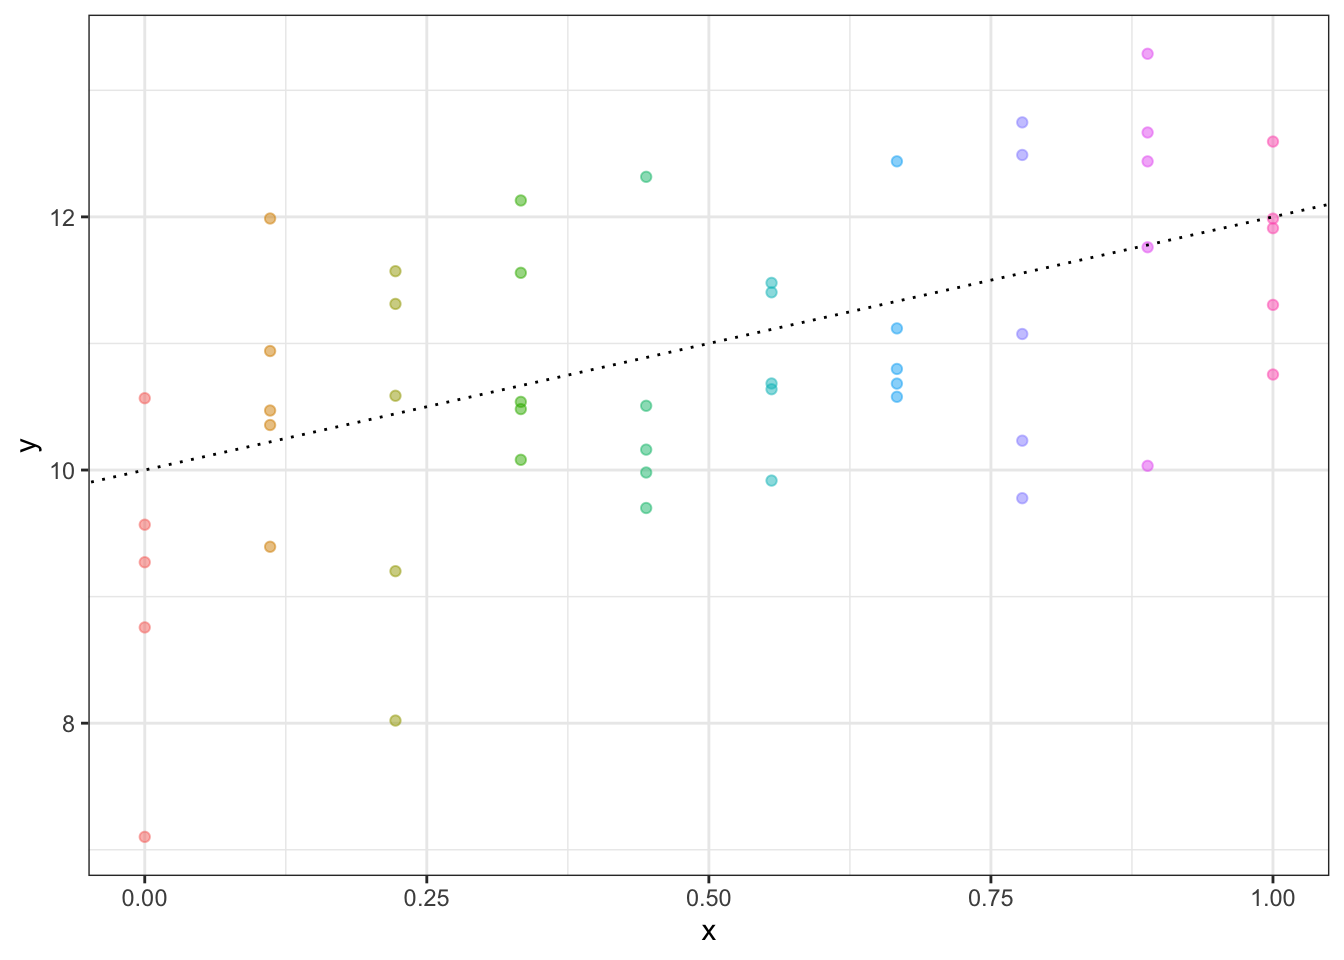
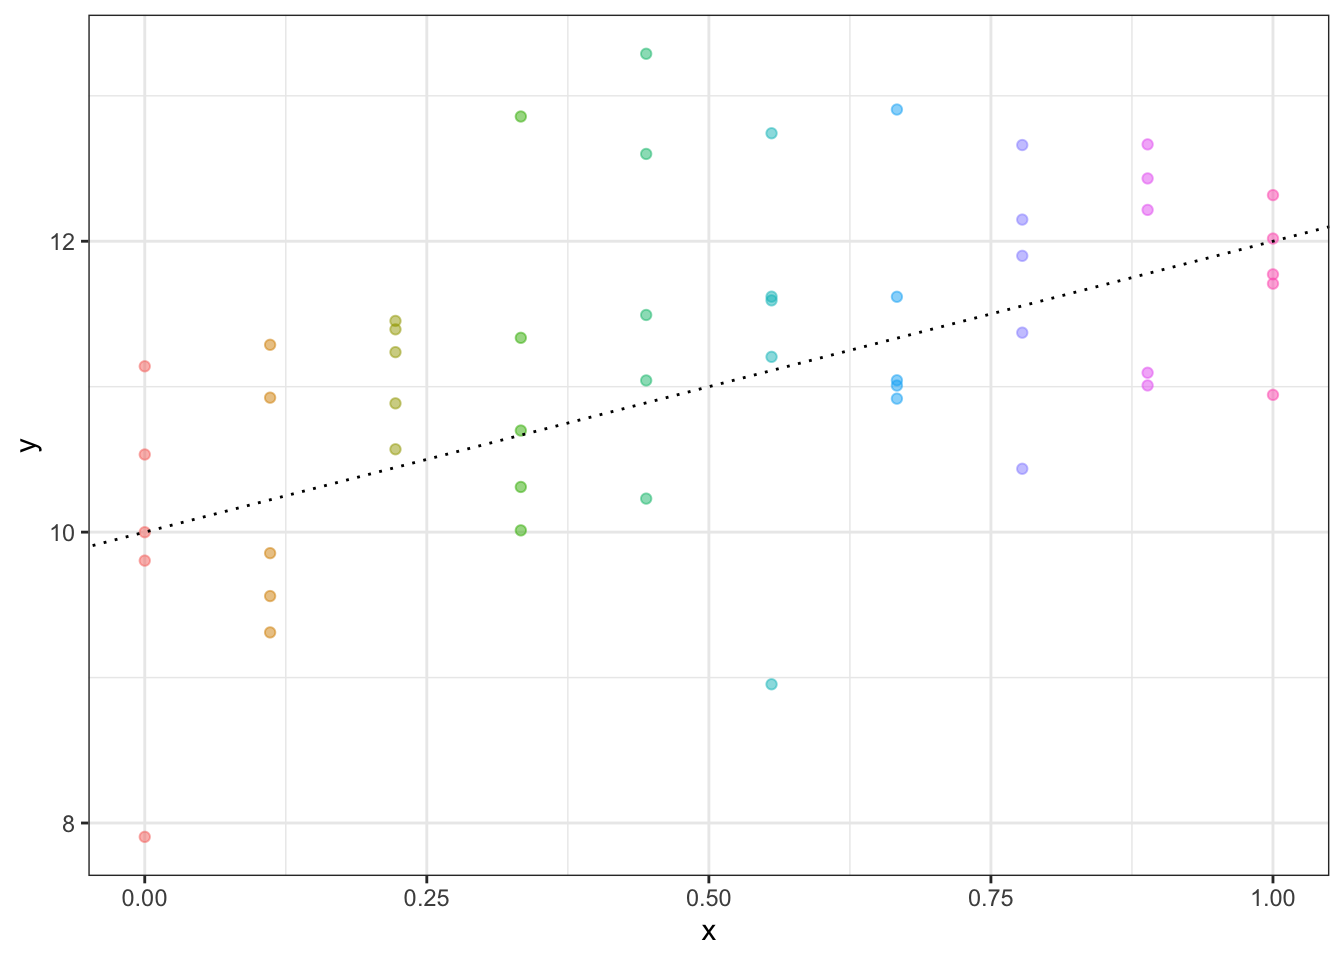
Minor edit

diff --git a/index.html b/index.html
@@ -135,9 +135,8 @@ code span.wa { color: #60a0b0; font-weight: bold; font-style: italic; } /* Warni
 <span id="cb1-8"><a href="#cb1-8" aria-hidden="true" tabindex="-1"></a><span class="fu">library</span>(tidybayes)</span>
 <span id="cb1-9"><a href="#cb1-9" aria-hidden="true" tabindex="-1"></a><span class="fu">options</span>(</span>
 <span id="cb1-10"><a href="#cb1-10" aria-hidden="true" tabindex="-1"></a>  <span class="at">mc.cores =</span> parallel<span class="sc">::</span><span class="fu">detectCores</span>(),</span>
-<span id="cb1-11"><a href="#cb1-11" aria-hidden="true" tabindex="-1"></a>  <span class="at">brms.backend =</span> <span class="st">"cmdstanr"</span>,</span>
-<span id="cb1-12"><a href="#cb1-12" aria-hidden="true" tabindex="-1"></a>  <span class="at">shinystan.rstudio =</span> <span class="cn">TRUE</span></span>
-<span id="cb1-13"><a href="#cb1-13" aria-hidden="true" tabindex="-1"></a>)</span></code><button title="Copy to Clipboard" class="code-copy-button"><i class="bi"></i></button></pre></div>
+<span id="cb1-11"><a href="#cb1-11" aria-hidden="true" tabindex="-1"></a>  <span class="at">brms.backend =</span> <span class="st">"cmdstanr"</span></span>
+<span id="cb1-12"><a href="#cb1-12" aria-hidden="true" tabindex="-1"></a>)</span></code><button title="Copy to Clipboard" class="code-copy-button"><i class="bi"></i></button></pre></div>
 </div>
 <section id="resources" class="level2">
 <h2 class="anchored" data-anchor-id="resources">Resources</h2>
@@ -195,15 +194,15 @@ y_i \sim \mathcal{N}(\mu_i, \sigma)
 <pre><code># A tibble: 50 × 2
        x     y
    &lt;dbl&gt; &lt;dbl&gt;
- 1 0      9.27
- 2 0     10.6 
- 3 0      9.57
- 4 0      8.76
- 5 0      7.10
- 6 0.111 12.0 
- 7 0.111 10.5 
- 8 0.111  9.39
- 9 0.111 10.4 
+ 1 0      7.90
+ 2 0     10.0 
+ 3 0     10.5 
+ 4 0      9.80
+ 5 0     11.1 
+ 6 0.111  9.56
+ 7 0.111  9.31
+ 8 0.111 11.3 
+ 9 0.111  9.86
 10 0.111 10.9 
 # … with 40 more rows</code></pre>
 </div>
@@ -225,26 +224,26 @@ lm(formula = y ~ x, data = d)
 
 Residuals:
     Min      1Q  Median      3Q     Max 
--2.6293 -0.6056 -0.0429  0.8170  2.0125 
+-2.4072 -0.5612  0.0311  0.5115  2.1871 
 
 Coefficients:
             Estimate Std. Error t value             Pr(&gt;|t|)    
-(Intercept)    9.731      0.275   35.42 &lt; 0.0000000000000002 ***
-x              2.192      0.463    4.73              0.00002 ***
+(Intercept)   10.312      0.247   41.75 &lt; 0.0000000000000002 ***
+x              1.777      0.416    4.27             0.000092 ***
 ---
 Signif. codes:  0 '***' 0.001 '**' 0.01 '*' 0.05 '.' 0.1 ' ' 1
 
-Residual standard error: 1.05 on 48 degrees of freedom
-Multiple R-squared:  0.318, Adjusted R-squared:  0.304 
-F-statistic: 22.4 on 1 and 48 DF,  p-value: 0.0000199</code></pre>
+Residual standard error: 0.94 on 48 degrees of freedom
+Multiple R-squared:  0.275, Adjusted R-squared:  0.26 
+F-statistic: 18.2 on 1 and 48 DF,  p-value: 0.0000921</code></pre>
 </div>
 </div>
 <div class="cell">
 <div class="sourceCode cell-code" id="cb7"><pre class="sourceCode r code-with-copy"><code class="sourceCode r"><span id="cb7-1"><a href="#cb7-1" aria-hidden="true" tabindex="-1"></a><span class="fu">confint</span>(l)</span></code><button title="Copy to Clipboard" class="code-copy-button"><i class="bi"></i></button></pre></div>
 <div class="cell-output cell-output-stdout">
-<pre><code>            2.5 % 97.5 %
-(Intercept) 9.179 10.283
-x           1.261  3.123</code></pre>
+<pre><code>             2.5 % 97.5 %
+(Intercept) 9.8153 10.809
+x           0.9403  2.615</code></pre>
 </div>
 </div>
 <div class="cell">
@@ -262,12 +261,12 @@ Formula: y ~ x
 
 Population-Level Effects: 
           Estimate Est.Error l-95% CI u-95% CI Rhat Bulk_ESS Tail_ESS
-Intercept     9.73      0.28     9.17    10.27 1.00     3890     2741
-x             2.20      0.48     1.24     3.15 1.00     3719     2807
+Intercept    10.32      0.25     9.80    10.82 1.00     3912     2797
+x             1.77      0.42     0.95     2.60 1.00     3727     2638
 
 Family Specific Parameters: 
       Estimate Est.Error l-95% CI u-95% CI Rhat Bulk_ESS Tail_ESS
-sigma     1.07      0.11     0.88     1.31 1.00     3463     3114
+sigma     0.96      0.10     0.80     1.18 1.00     3585     2748
 
 Draws were sampled using sample(hmc). For each parameter, Bulk_ESS
 and Tail_ESS are effective sample size measures, and Rhat is the potential
